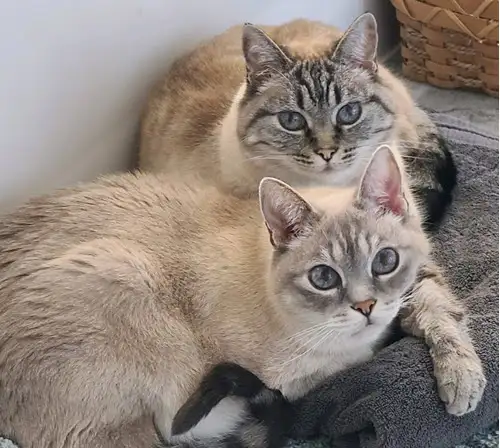
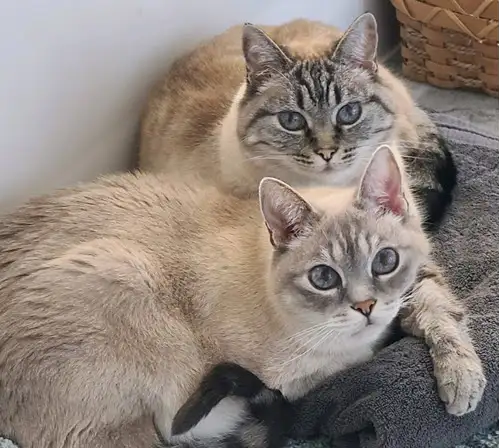
Whoops, forgot to move captions when full-page.
Oh, and make below-the-fold images load lazily.

Also ran npm format, which I also forgot.

diff --git a/src/index.html b/src/index.html
@@ -60,7 +60,7 @@
         <img src="/images/fog-500.webp"
         srcset="/images/fog-500.webp 500w, /images/fog-250.webp 250w"
         alt="A foggy morning overlooking the grass"
-        width="500">
+        width="500" loading="lazy">
       </figure>
       <figure class="photo-with-caption">
         <figcaption>Keep your eyes open for families of deer who use the wetland as a highway to travel around town.
@@ -68,7 +68,7 @@
         <img src="/images/deer-500.webp"
         srcset="/images/deer-500.webp 500w, /images/deer-250.webp 250w"
         alt="A friendly neighborhood deer"
-        width="500">
+        width="500" loading="lazy">
       </figure>
       <figure class="photo-with-caption">
         <figcaption>If you're very lucky, you may even run into The Burgener Chalet's two mascots, Rock Hudson and Tony
@@ -76,7 +76,7 @@
         <img src="/images/cats-500.webp"
         srcset="/images/cats-500.webp 500w, /images/cats-250.webp 250w"
         alt="The resident cat mascots, Rock Hudson and Tony Randall"
-        width="500">
+        width="500" loading="lazy">
       </figure>
 
       </ul>

diff --git a/src/styles/site.css b/src/styles/site.css
@@ -75,7 +75,7 @@ figure.photo-with-caption {
   margin-bottom: 15px;
 
   figcaption {
-    font-size: .9em;
+    font-size: 0.9em;
     text-align: center;
     background: var(--light-gray);
     border-radius: 15px;
@@ -86,6 +86,19 @@ figure.photo-with-caption {
     max-width: 100%;
     border-radius: 15px;
     border: 3px solid var(--primary-color);
+    display: block;
+    margin: 0 auto;
+  }
+
+  @media screen and (min-width: 600px) {
+    display: grid;
+    grid-template-columns: 1fr 1fr;
+    gap: 10px;
+    align-items: center;
+
+    &:nth-of-type(2) {
+      direction: rtl; /* Reverse the order to alternate images */
+    }
   }
 }
 /* Banner styles */
@@ -229,7 +242,7 @@ footer {
     left: 15px;
     font-size: 1.2em;
     background-color: var(--dark-gray);
-    opacity: .8;
+    opacity: 0.8;
     color: white;
     padding: 10px;
     border-radius: 15px;
@@ -263,7 +276,6 @@ footer {
       margin: 10px auto;
     }
   }
-
 }
 
 /* Transition layout to full-sized screens */
